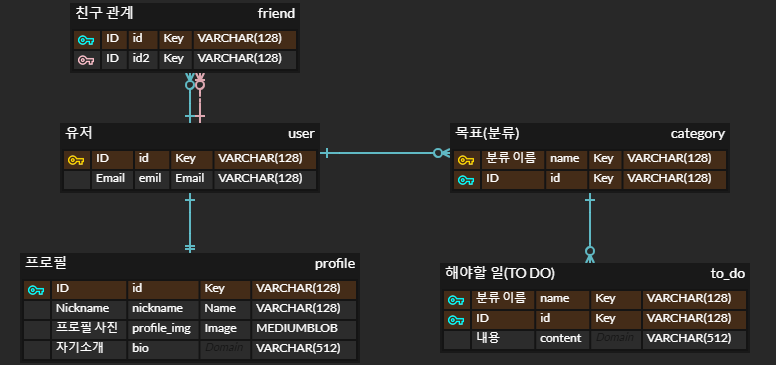
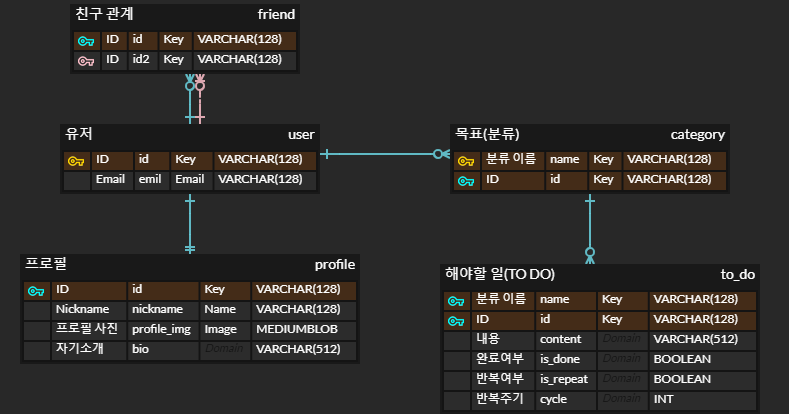
db todo fix

Changed region(s): [[0.0619, 0.3014, 0.9588, 0.9945], [0.0309, 0.6027, 0.4639, 0.9644], [0.0928, 0.0, 0.4021, 0.3315]]

diff --git a/README.md b/README.md
@@ -16,7 +16,7 @@
 <br></br>
 
 ### 투두메이트 모델링 결과
-![img_1.png](src/img/db_erd.png)
+![img.png](src/img/db_erd.png)
 1. 유저는 목표를 여러 개 세울 수 있다. (1 : N)
 2. 유저는 할 일을 여러 개 만들 수 있다. (1 : N)
 3. 목표는 할 일을 여러 개 가질 수 있다. 하나의 할 일은 한 목표에 대응된다. (1 : N)
